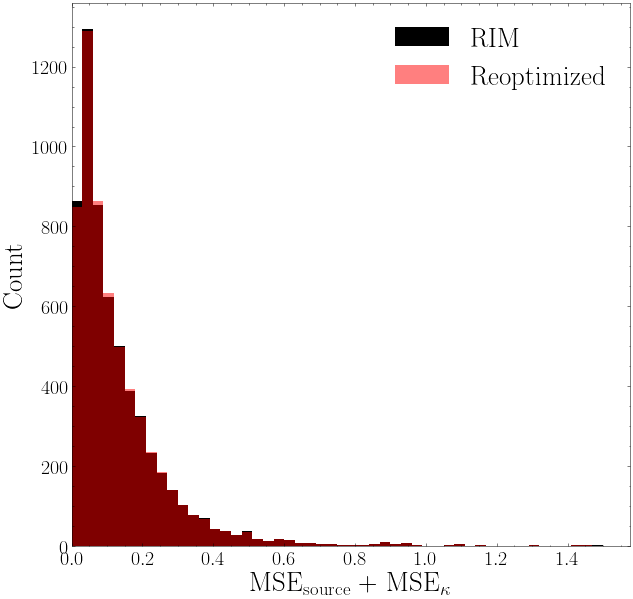
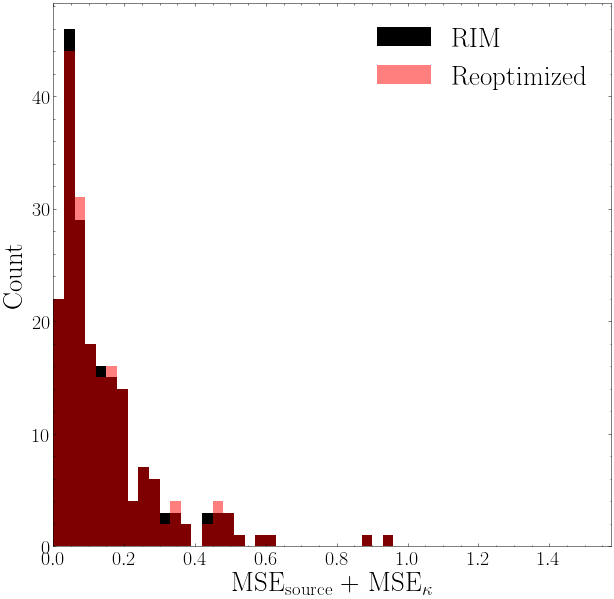
Now sampling only once at the beginnig of optimization and keeping this sample as posterior. Removed early stopping to see what happens
Former-commit-id: eb2fe6a5ac30455f38996c2edfb263754c8195a7
Former-commit-id: 86fd7928941c821b1a27615192f89e9a376bf920 [formerly dcc9b71019ea00f00606ad6fc00ab6a1d36089e4]
Former-commit-id: 29f194caa20843a2099a9ea20d4cf1709bead680

diff --git a/scripts/rim_results_v4_and_optim_posterior.py b/scripts/rim_results_v4_and_optim_posterior.py
@@ -84,16 +84,19 @@ def distributed_strategy(args):
             g.create_dataset(name="noise_rms",                              shape=[data_len],                                                                   dtype=np.float32)
             g.create_dataset(name="source",                                 shape=[data_len, phys.src_pixels, phys.src_pixels, 1],                              dtype=np.float32)
             g.create_dataset(name="kappa",                                  shape=[data_len, phys.kappa_pixels, phys.kappa_pixels, 1],                          dtype=np.float32)
+            g.create_dataset(name="lens_prior",                             shape=[data_len, phys.pixels, phys.pixels, 1],                                      dtype=np.float32)
             g.create_dataset(name="lens_pred",                              shape=[data_len, phys.pixels, phys.pixels, 1],                                      dtype=np.float32)
             g.create_dataset(name="lens_pred_reoptimized",                  shape=[data_len, phys.pixels, phys.pixels, 1],                                      dtype=np.float32)
+            g.create_dataset(name="source_prior",                           shape=[data_len, rim.steps, phys.src_pixels, phys.src_pixels, 1],                   dtype=np.float32)
             g.create_dataset(name="source_pred",                            shape=[data_len, rim.steps, phys.src_pixels, phys.src_pixels, 1],                   dtype=np.float32)
             g.create_dataset(name="source_pred_reoptimized",                shape=[data_len, phys.src_pixels, phys.src_pixels, 1],                              dtype=np.float32)
+            g.create_dataset(name="kappa_prior",                            shape=[data_len, rim.steps, phys.kappa_pixels, phys.kappa_pixels, 1],               dtype=np.float32)
             g.create_dataset(name="kappa_pred",                             shape=[data_len, rim.steps, phys.kappa_pixels, phys.kappa_pixels, 1],               dtype=np.float32)
             g.create_dataset(name="kappa_pred_reoptimized",                 shape=[data_len, phys.kappa_pixels, phys.kappa_pixels, 1],                          dtype=np.float32)
             g.create_dataset(name="chi_squared",                            shape=[data_len, rim.steps],                                                        dtype=np.float32)
             g.create_dataset(name="chi_squared_reoptimized",                shape=[data_len],                                                                   dtype=np.float32)
             g.create_dataset(name="chi_squared_reoptimized_series",         shape=[data_len, args.re_optimize_steps],                                           dtype=np.float32)
-            g.create_dataset(name="sampled_chi_squared_reoptimized_series", shape=[data_len, args.re_optimize_steps],                                           dtype=np.float32)
+            # g.create_dataset(name="sampled_chi_squared_reoptimized_series", shape=[data_len, args.re_optimize_steps],                                           dtype=np.float32)
             g.create_dataset(name="source_optim_mse",                       shape=[data_len],                                                                   dtype=np.float32)
             g.create_dataset(name="source_optim_mse_series",                shape=[data_len, args.re_optimize_steps],                                           dtype=np.float32)
             g.create_dataset(name="sampled_source_optim_mse_series",        shape=[data_len, args.re_optimize_steps],                                           dtype=np.float32)
@@ -119,15 +122,39 @@ def distributed_strategy(args):
             dataset = dataset.skip(data_len * (THIS_WORKER - 1)).take(data_len)
             for batch, (lens, source, kappa, noise_rms, psf, fwhm) in enumerate(dataset.batch(1).prefetch(tf.data.experimental.AUTOTUNE)):
                 checkpoint_manager.checkpoint.restore(checkpoint_manager.latest_checkpoint).expect_partial()  # reset model weights
+
                 # RIM predictions for kappa and source
                 source_pred, kappa_pred, chi_squared = rim.predict(lens, noise_rms, psf)
                 lens_pred = phys.forward(source_pred[-1], kappa_pred[-1], psf)
                 source_o = source_pred[-1]
                 kappa_o = kappa_pred[-1]
-                # Latent code of ground truth
+
+                # ===================== VAE SAMPLING for PRIOR ==============================
+                # Ground truth latent code for oracle metrics
                 z_source_gt, _ = source_vae.encoder(source)
                 z_kappa_gt, _ = kappa_vae.encoder(log_10(kappa))
-                # Re-optimize weights of the model on data similar to prediction
+                source_ball_size = source_ball_size.write(index=current_step, value=tf.squeeze(tf.abs(z_source - z_source_gt)))
+                kappa_ball_size = kappa_ball_size.write(index=current_step, value=tf.squeeze(tf.abs(z_kappa - z_kappa_gt)))
+
+                # Latent code of model predictions
+                z_source, _ = source_vae.encoder(source_o)
+                z_kappa, _ = kappa_vae.encoder(log_10(kappa_o))
+
+                # L1 distance with ground truth in latent space -- this is changed by an user defined value when using real data
+                # z_source_std = tf.abs(z_source - z_source_gt)
+                # z_kappa_std = tf.abs(z_kappa - z_kappa_gt)
+                z_source_std = args.source_vae_ball_size
+                z_kappa_std = args.kappa_vae_ball_size
+
+                # Sample latent code, then decode and forward
+                z_s = tf.random.normal(shape=[1, source_vae.latent_size], mean=z_source, stddev=z_source_std)
+                z_k = tf.random.normal(shape=[1, kappa_vae.latent_size], mean=z_kappa, stddev=z_kappa_std)
+                sampled_source = source_vae.decode(z_s)
+                sampled_source /= tf.reduce_max(tf.nn.relu(sampled_source), keepdims=True)  # make sampled source normalized and positive
+                sampled_kappa = kappa_vae.decode(z_k)  # output in log_10 space
+                sampled_lens = phys.noisy_forward(sampled_source, 10**sampled_kappa, noise_rms, psf)  # for posterity and fishing experiments
+
+                # Re-optimize weights of the model
                 STEPS = args.re_optimize_steps
                 learning_rate_schedule = tf.keras.optimizers.schedules.ExponentialDecay(
                     initial_learning_rate=args.learning_rate,
@@ -140,7 +167,7 @@ def distributed_strategy(args):
                 chi_squared_series = tf.TensorArray(DTYPE, size=STEPS)
                 source_mse = tf.TensorArray(DTYPE, size=STEPS)
                 kappa_mse = tf.TensorArray(DTYPE, size=STEPS)
-                sampled_chi_squared_series = tf.TensorArray(DTYPE, size=STEPS)
+                # sampled_chi_squared_series = tf.TensorArray(DTYPE, size=STEPS)
                 sampled_source_mse = tf.TensorArray(DTYPE, size=STEPS)
                 sampled_kappa_mse = tf.TensorArray(DTYPE, size=STEPS)
                 source_ball_size = tf.TensorArray(DTYPE, size=STEPS)
@@ -149,40 +176,24 @@ def distributed_strategy(args):
                 source_best = source_pred[-1]
                 kappa_best = kappa_pred[-1]
                 for current_step in tqdm(range(STEPS)):
-                    # Latent code of model predictions
-                    z_source, _ = source_vae.encoder(source_o)
-                    z_kappa, _ = kappa_vae.encoder(log_10(kappa_o))
-                    # L1 distance with ground truth in latent space -- this can be changed by an empirical average when using real data
-                    z_source_std = tf.abs(z_source - z_source_gt)
-                    z_kappa_std = tf.abs(z_kappa - z_kappa_gt)
-                    source_ball_size.write(index=current_step, value=tf.squeeze(z_source_std))
-                    kappa_ball_size.write(index=current_step, value=tf.squeeze(z_kappa_std))
-                    # Sample latent code, then decode and forward
-                    z_s = tf.random.normal(shape=[args.batch_size, source_vae.latent_size], mean=z_source, stddev=z_source_std)
-                    z_k = tf.random.normal(shape=[args.batch_size, kappa_vae.latent_size], mean=z_kappa, stddev=z_kappa_std)
-                    sampled_source = source_vae.decode(z_s)
-                    sampled_source /= tf.reduce_max(tf.nn.relu(sampled_source), keepdims=True)  # make source is normalized and positive
-                    sampled_kappa = kappa_vae.decode(z_k)  # output in log_10 space
-                    sampled_lens = phys.noisy_forward(sampled_source, 10**sampled_kappa, noise_rms, psf)
                     with tf.GradientTape() as tape:
                         tape.watch(unet.trainable_variables)
                         # log likelihood
                         s, k, chi_sq = rim.call(lens, noise_rms, psf, outer_tape=tape)
                         cost = tf.reduce_mean(chi_sq)
                         # log prior
-                        s_s, s_k, s_chi_sq = rim.call(sampled_lens, noise_rms, psf, outer_tape=tape)
-                        _kappa_mse = tf.reduce_sum(wk(10**sampled_kappa) * (s_k - sampled_kappa) ** 2, axis=(2, 3, 4))
+                        _kappa_mse = tf.reduce_sum(wk(10**sampled_kappa) * (k - sampled_kappa) ** 2, axis=(2, 3, 4))
                         cost += tf.reduce_mean(_kappa_mse)
-                        cost += tf.reduce_mean((s_s - sampled_source)**2)
+                        cost += tf.reduce_mean((s - sampled_source)**2)
                         cost += tf.reduce_sum(rim.unet.losses)  # weight decay
 
                     grads = tape.gradient(cost, unet.trainable_variables)
                     optim.apply_gradients(zip(grads, unet.trainable_variables))
 
                     # Record performance on sampled dataset
-                    sampled_chi_squared_series = sampled_chi_squared_series.write(index=current_step, value=tf.reduce_mean(s_chi_sq[-1]))
-                    sampled_source_mse = sampled_source_mse.write(index=current_step, value=tf.reduce_mean((s_s[-1] - sampled_source) ** 2))
-                    sampled_kappa_mse = sampled_kappa_mse.write(index=current_step, value=tf.reduce_mean((s_k[-1] - log_10(sampled_kappa)) ** 2))
+                    # sampled_chi_squared_series = sampled_chi_squared_series.write(index=current_step, value=tf.reduce_mean(s_chi_sq[-1]))
+                    sampled_source_mse = sampled_source_mse.write(index=current_step, value=tf.reduce_mean((s[-1] - sampled_source) ** 2))
+                    sampled_kappa_mse = sampled_kappa_mse.write(index=current_step, value=tf.reduce_mean((k[-1] - sampled_kappa) ** 2))
                     # Record model prediction on data
                     log_likelihood = chi_sq[-1]
                     chi_squared_series = chi_squared_series.write(index=current_step, value=log_likelihood)
@@ -192,11 +203,11 @@ def distributed_strategy(args):
                     source_mse = source_mse.write(index=current_step, value=tf.reduce_mean((source_o - source) ** 2))
                     kappa_mse = kappa_mse.write(index=current_step, value=tf.reduce_mean((kappa_o - log_10(kappa)) ** 2))
                     # Early stopping could be replaced altogether by window averaging... (could we use SLGD here? In the mean time use approximate sampling from RMSprop)
-                    if 2 * chi_sq[-1, 0] < args.converged_chisq:
-                        source_best = source_o
-                        kappa_best = 10**kappa_o
-                        best = chi_sq[-1, 0]
-                        break
+                    # if 2 * chi_sq[-1, 0] < args.converged_chisq:
+                    #     source_best = source_o
+                    #     kappa_best = 10**kappa_o
+                    #     best = chi_sq[-1, 0]
+                    #     break
                     if chi_sq[-1, 0] < best:
                         source_best = source_o
                         kappa_best = 10**kappa_o
@@ -210,7 +221,7 @@ def distributed_strategy(args):
                 chi_sq_series = tf.transpose(chi_squared_series.stack())
                 source_mse = source_mse.stack()[None, ...]
                 kappa_mse = kappa_mse.stack()[None, ...]
-                sampled_chi_squared_series = sampled_chi_squared_series.stack()[None, ...]
+                # sampled_chi_squared_series = sampled_chi_squared_series.stack()[None, ...]
                 sampled_source_mse = sampled_source_mse.stack()[None, ...]
                 sampled_kappa_mse = sampled_kappa_mse.stack()[None, ...]
                 source_ball_size = source_ball_size.stack()[None, ...]
@@ -240,7 +251,7 @@ def distributed_strategy(args):
                 g["chi_squared"][batch] = 2*tf.transpose(chi_squared).numpy().astype(np.float32)
                 g["chi_squared_reoptimized"][batch] = 2*best.numpy().astype(np.float32)
                 g["chi_squared_reoptimized_series"][batch] = 2*chi_sq_series.numpy().astype(np.float32)
-                g["sampled_chi_squared_reoptimized_series"][batch] = 2*sampled_chi_squared_series.numpy().astype(np.float32)
+                # g["sampled_chi_squared_reoptimized_series"][batch] = 2*sampled_chi_squared_series.numpy().astype(np.float32)
                 g["source_optim_mse"][batch] = source_mse_best.numpy().astype(np.float32)
                 g["source_optim_mse_series"][batch] = source_mse.numpy().astype(np.float32)
                 g["sampled_source_optim_mse_series"][batch] = sampled_source_mse.numpy().astype(np.float32)
@@ -287,8 +298,9 @@ if __name__ == '__main__':
     parser.add_argument("--source_coherence_bins",  default=40,     type=int)
     parser.add_argument("--kappa_coherence_bins",   default=40,     type=int)
     parser.add_argument("--re_optimize_steps",  default=2000,       type=int)
-    parser.add_argument("--batch_size",         default=1,          type=int)
     parser.add_argument("--converged_chisq",    default=1.0,        type=float, help="Value of the chisq that is considered converged.")
+    parser.add_argument("--source_vae_ball_size",   default=0.1,    type=float, help="Standard deviation of the source VAE latent space sampling around RIM prediction")
+    parser.add_argument("--kappa_vae_ball_size",    default=0.1,    type=float, help="Standard deviation of the kappa VAE latent space sampling around RIM prediction")
     parser.add_argument("--l2_amp",             default=1e-6,       type=float)
     parser.add_argument("--learning_rate",      default=1e-6,       type=float)
     parser.add_argument("--decay_rate",         default=1,          type=float)
